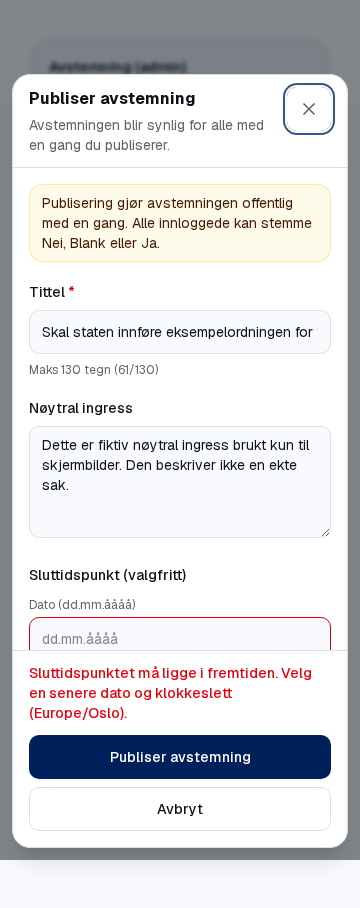
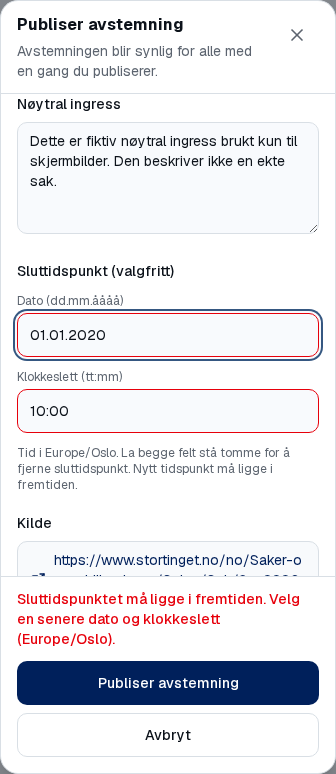
fix(admin): visible dialog validation error in footer PNGs
Keep field errors in dialog footer with focus/scroll to invalid inputs;
fixture capture prefills past sluttid and clips dialog for feil screenshots.
Add dialog-feil-dark-360.

diff --git a/components/sak/stortinget-poll-admin-section.tsx b/components/sak/stortinget-poll-admin-section.tsx
@@ -1,6 +1,6 @@
 'use client';
 
-import { useState, useTransition, useId } from 'react';
+import { useState, useTransition, useId, useEffect, useRef } from 'react';
 import Link from 'next/link';
 import { useRouter } from 'next/navigation';
 import { ExternalLink, Loader2 } from 'lucide-react';
@@ -43,6 +43,9 @@ type StortingetPollAdminSectionProps = {
   captureDialogStep?: 'form' | 'confirm';
   captureFieldError?: string | null;
   capturePending?: boolean;
+  /** Kun for docs/screenshots — forhåndsutfylte sluttid-felt ved valideringsfeil. */
+  captureClosesAtDate?: string;
+  captureClosesAtTime?: string;
 };
 
 const FIELD_CLASS = cn(
@@ -110,14 +113,16 @@ export function StortingetPollAdminSection({
   captureDialogStep = 'form',
   captureFieldError = null,
   capturePending = false,
+  captureClosesAtDate = '',
+  captureClosesAtTime = '',
 }: StortingetPollAdminSectionProps) {
   const effectiveState = captureAdminState ?? adminState;
   const [dialogOpen, setDialogOpen] = useState(captureDialogOpen || captureEditDialogOpen);
   const [dialogStep, setDialogStep] = useState<'form' | 'confirm'>(captureDialogStep);
   const [title, setTitle] = useState(sakTitle);
   const [neutralSummary, setNeutralSummary] = useState(defaultNeutralSummary);
-  const [closesAtDate, setClosesAtDate] = useState('');
-  const [closesAtTime, setClosesAtTime] = useState('');
+  const [closesAtDate, setClosesAtDate] = useState(captureClosesAtDate);
+  const [closesAtTime, setClosesAtTime] = useState(captureClosesAtTime);
   const [initialClosesAtWire, setInitialClosesAtWire] = useState<string | null>(null);
   const [fieldError, setFieldError] = useState<string | null>(captureFieldError);
   const [pending, startTransition] = useTransition();
@@ -126,6 +131,34 @@ export function StortingetPollAdminSection({
   const { message, variant, toast } = useAdminToast();
   const formErrorId = useId();
   const invalidFields = invalidFieldsFromError(fieldError);
+  const titleRef = useRef<HTMLInputElement>(null);
+  const ingressRef = useRef<HTMLTextAreaElement>(null);
+  const closesDateRef = useRef<HTMLInputElement>(null);
+  const closesTimeRef = useRef<HTMLInputElement>(null);
+  const footerErrorRef = useRef<HTMLParagraphElement>(null);
+
+  function focusFirstInvalidField(fields: ReturnType<typeof invalidFieldsFromError>) {
+    const target = fields.title
+      ? titleRef.current
+      : fields.closesAt
+        ? closesDateRef.current
+        : fields.neutralSummary
+          ? ingressRef.current
+          : null;
+    target?.scrollIntoView({ block: 'center', behavior: 'smooth' });
+    target?.focus({ preventScroll: true });
+    footerErrorRef.current?.scrollIntoView({ block: 'nearest', behavior: 'smooth' });
+  }
+
+  useEffect(() => {
+    if (!fieldError || !dialogOpen || dialogStep !== 'form') return;
+    const fields = invalidFieldsFromError(fieldError);
+    if (!fields.title && !fields.closesAt && !fields.neutralSummary) return;
+    const frame = requestAnimationFrame(() => {
+      focusFirstInvalidField(fields);
+    });
+    return () => cancelAnimationFrame(frame);
+  }, [fieldError, dialogOpen, dialogStep]);
 
   const existingPoll = effectiveState.kind === 'editable' ? effectiveState.poll : null;
   const hasPoll =
@@ -226,7 +259,12 @@ export function StortingetPollAdminSection({
 
   const formFooterError =
     fieldError && dialogStep === 'form' ? (
-      <p id={formErrorId} role="alert" className="mb-3 text-sm font-medium text-destructive">
+      <p
+        ref={footerErrorRef}
+        id={formErrorId}
+        role="alert"
+        className="mb-3 text-sm font-medium text-destructive"
+      >
         {fieldError}
       </p>
     ) : null;
@@ -352,6 +390,7 @@ export function StortingetPollAdminSection({
                 Tittel <span className="text-destructive">*</span>
               </label>
               <input
+                ref={titleRef}
                 id="stortinget-poll-title"
                 type="text"
                 required
@@ -372,6 +411,7 @@ export function StortingetPollAdminSection({
                 Nøytral ingress
               </label>
               <textarea
+                ref={ingressRef}
                 id="stortinget-poll-ingress"
                 rows={4}
                 maxLength={STORTINGET_POLL_NEUTRAL_SUMMARY_MAX}
@@ -404,6 +444,7 @@ export function StortingetPollAdminSection({
                     Dato (dd.mm.åååå)
                   </label>
                   <input
+                    ref={closesDateRef}
                     id="stortinget-poll-closes-date"
                     type="text"
                     inputMode="numeric"
@@ -421,6 +462,7 @@ export function StortingetPollAdminSection({
                     Klokkeslett (tt:mm)
                   </label>
                   <input
+                    ref={closesTimeRef}
                     id="stortinget-poll-closes-time"
                     type="text"
                     inputMode="numeric"

diff --git a/docs/stortinget-poll-admin/README.md b/docs/stortinget-poll-admin/README.md
@@ -22,7 +22,8 @@ Skriptet oppretter midlertidige ruter under `app/dev/stortinget-poll-admin-captu
 | `sak-blokkert-light-1280.png` | Samme blokkert-tilstand, lys, desktop |
 | `sak-blokkert-dark-1280.png` | Samme blokkert-tilstand, mørk, desktop |
 | `dialog-bekreft-light-360.png` | Bekreftelsessteg «Publisere nå?» før første publisering |
-| `dialog-feil-light-360.png` | Valideringsfeil (sluttidspunkt i fortiden) |
+| `dialog-feil-light-360.png` | Valideringsfeil (sluttidspunkt i fortiden) — feil over footer, røde felt |
+| `dialog-feil-dark-360.png` | Samme, mørk, smal |
 | `dialog-last-light-360.png` | Publiseringsdialog med lasteindikator (fixture) |
 | `sak-rediger-light-360.png` | Sak der avstemning finnes: «Se avstemningen» + «Rediger avstemning» |
 | `dialog-rediger-light-1280.png` | Rediger-dialog for eksisterende avstemning |
